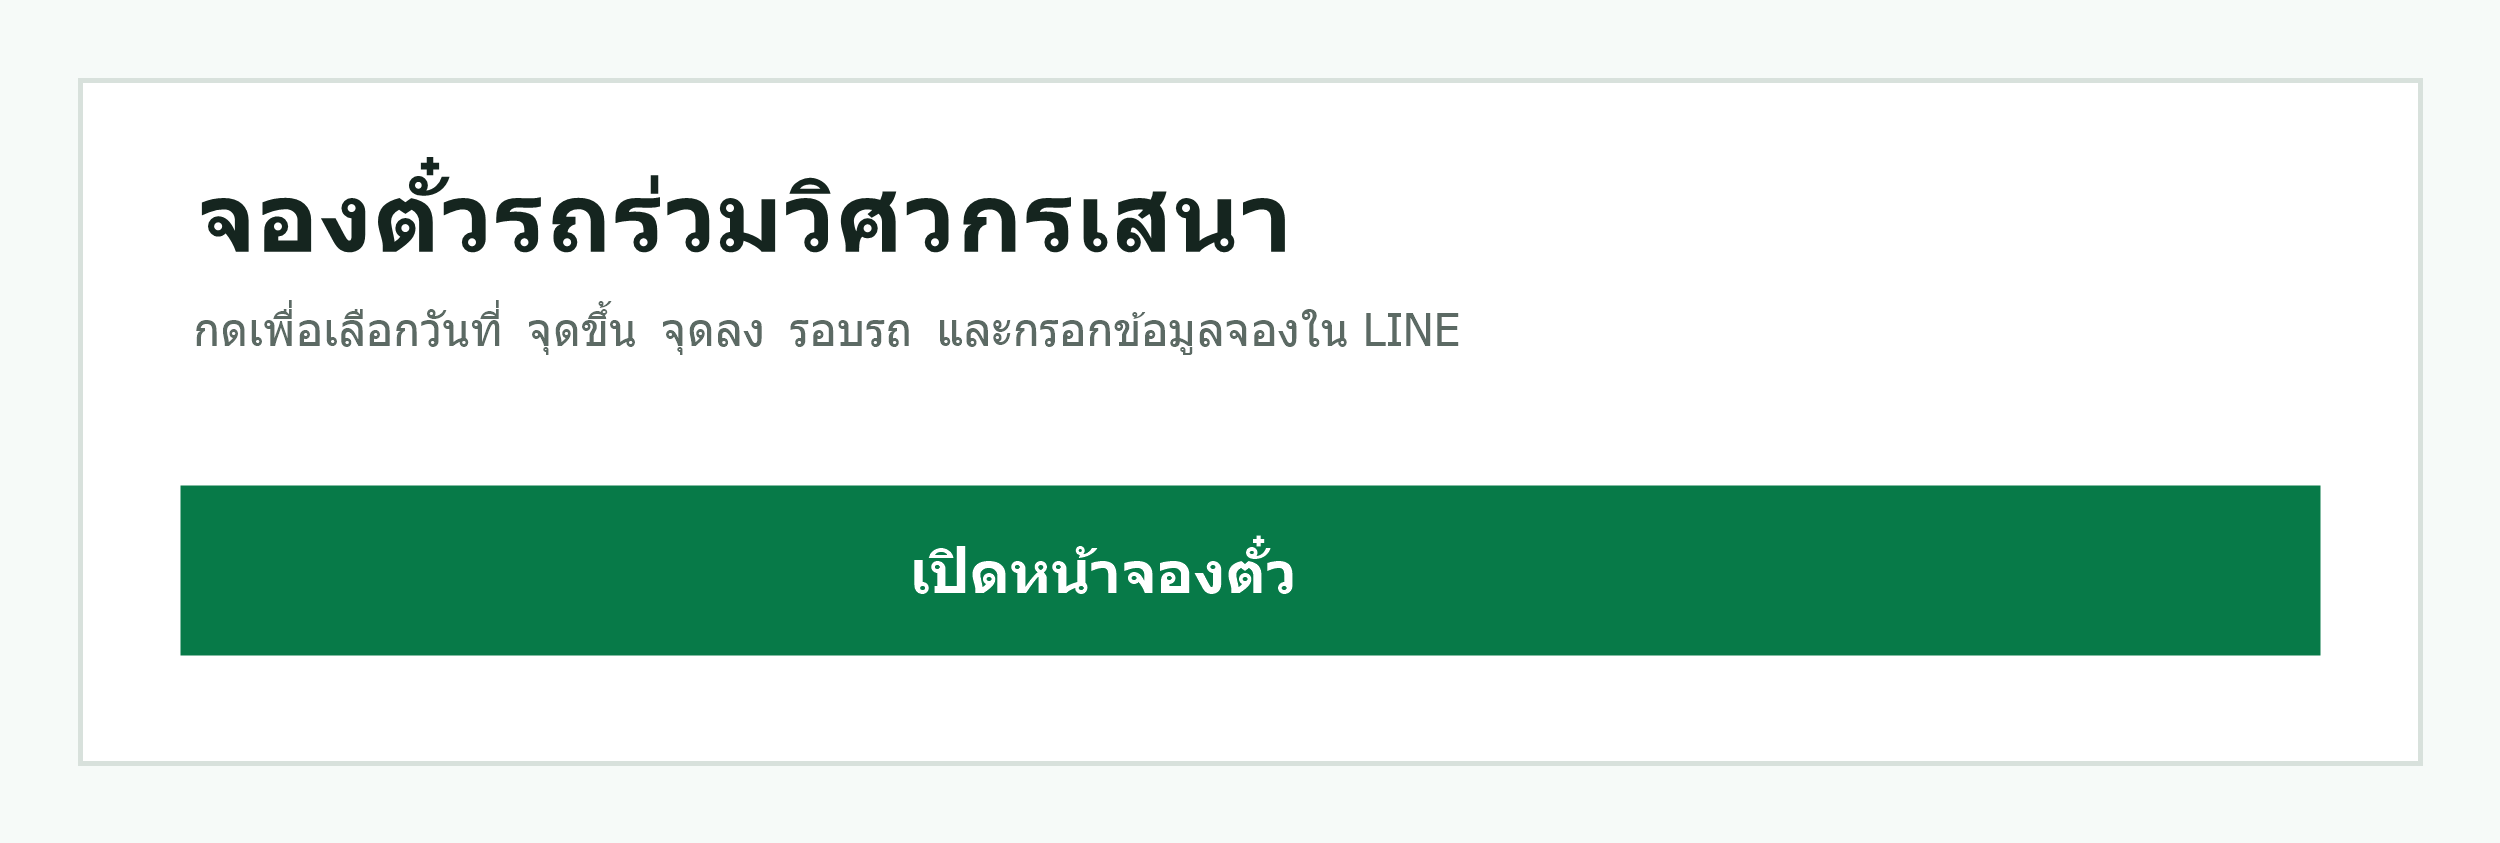
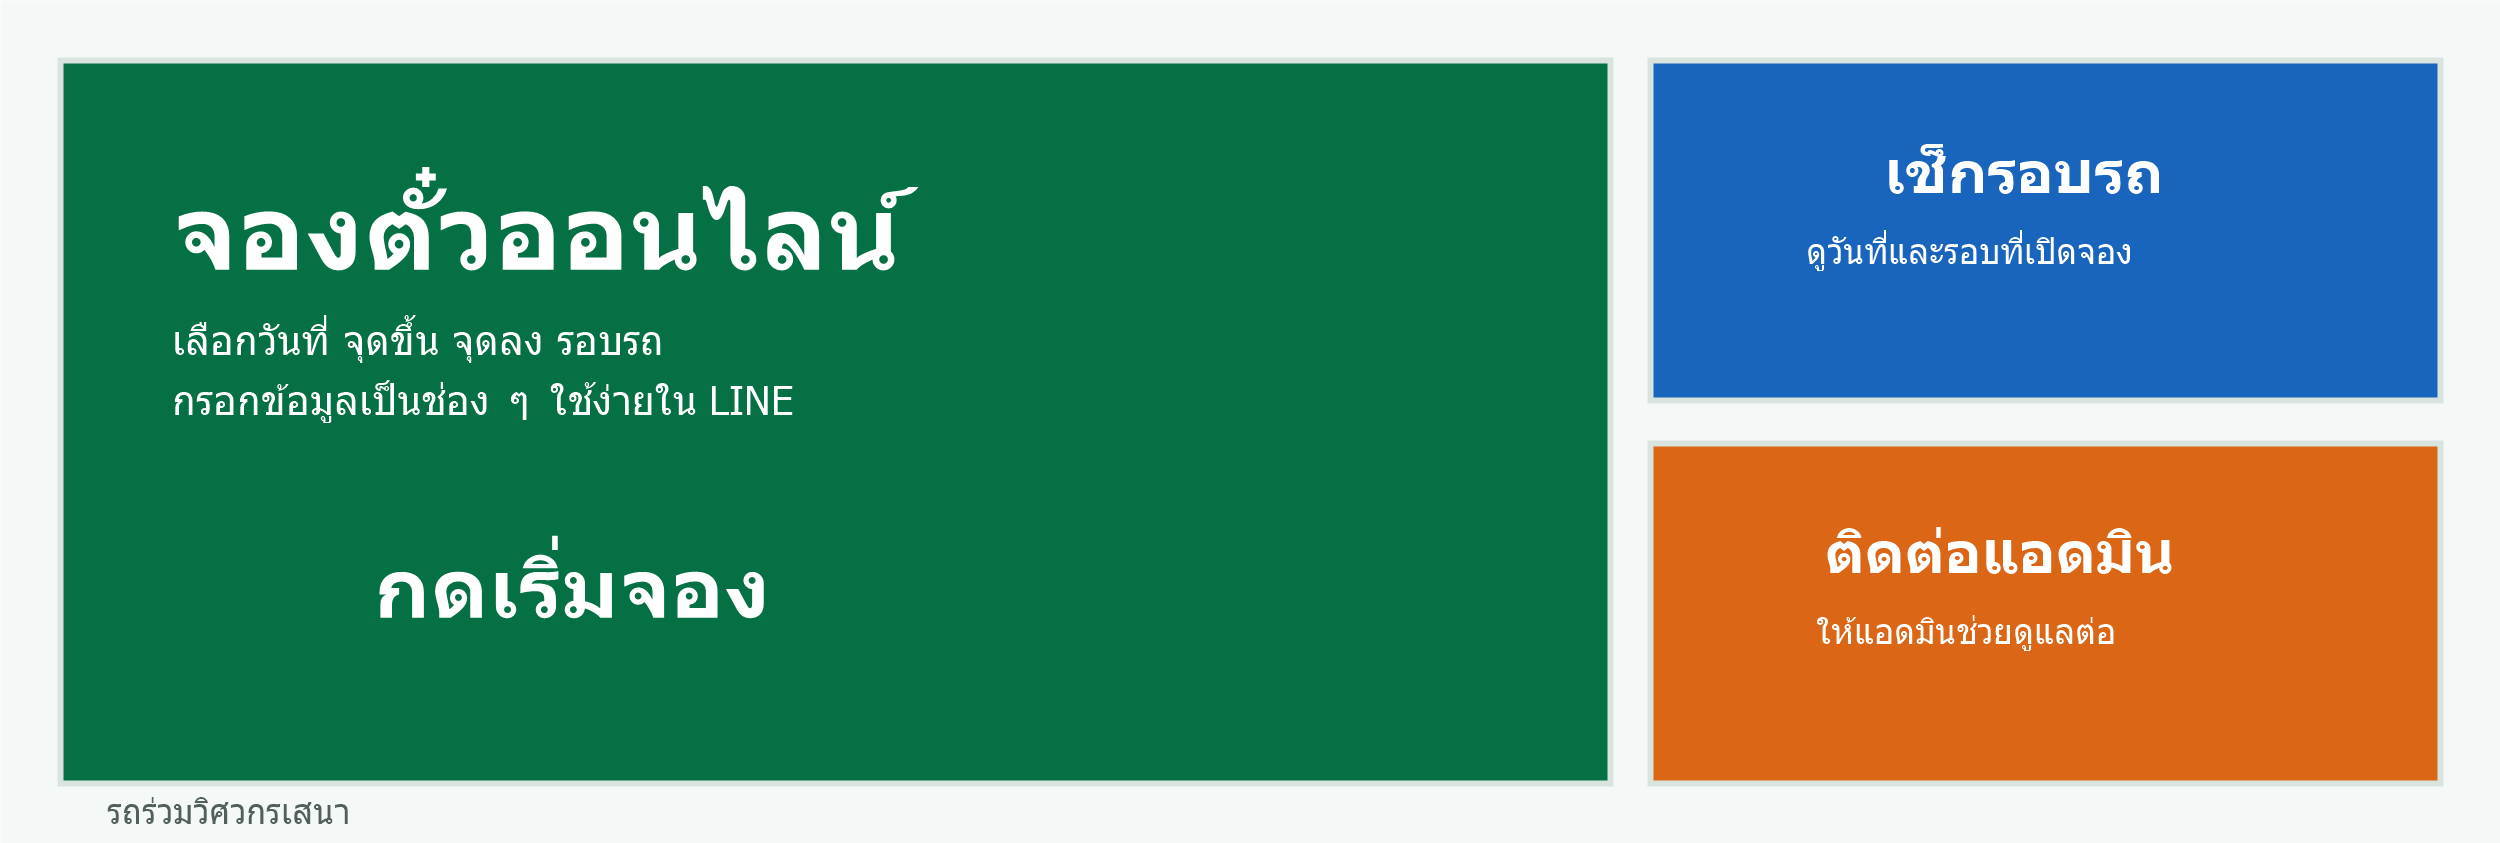
Improve rich menu layout

diff --git a/scripts/setup-rich-menu.js b/scripts/setup-rich-menu.js
@@ -89,11 +89,27 @@ async function main() {
     chatBarText,
     areas: [
       {
-        bounds: { x: 0, y: 0, width: 2500, height: 843 },
+        bounds: { x: 0, y: 0, width: 1650, height: 843 },
         action: {
           type: 'uri',
           label: 'จองตั๋ว',
           uri: baseUrl
+        }
+      },
+      {
+        bounds: { x: 1650, y: 0, width: 850, height: 421 },
+        action: {
+          type: 'message',
+          label: 'เช็กรอบรถ',
+          text: 'เช็กรอบรถ'
+        }
+      },
+      {
+        bounds: { x: 1650, y: 421, width: 850, height: 422 },
+        action: {
+          type: 'message',
+          label: 'ติดต่อแอดมิน',
+          text: 'ติดต่อแอดมิน'
         }
       }
     ]
